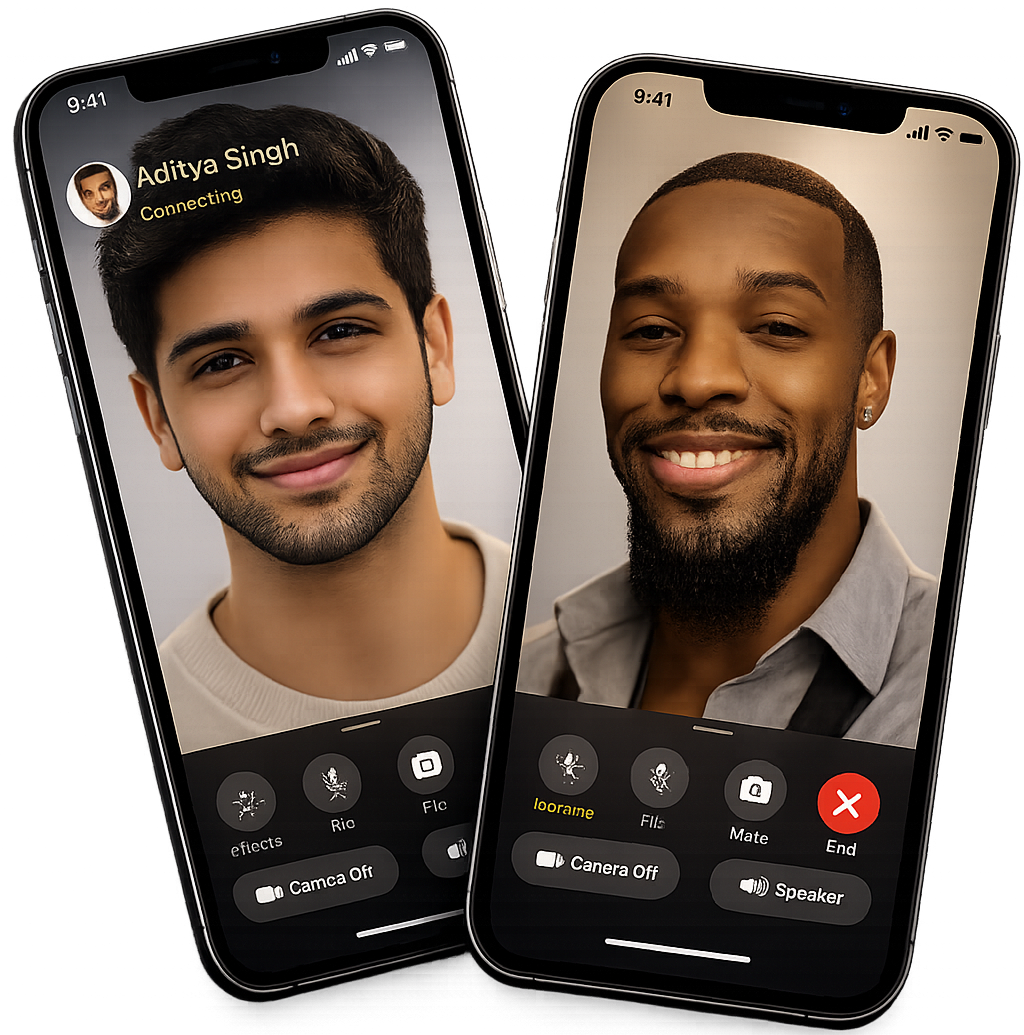
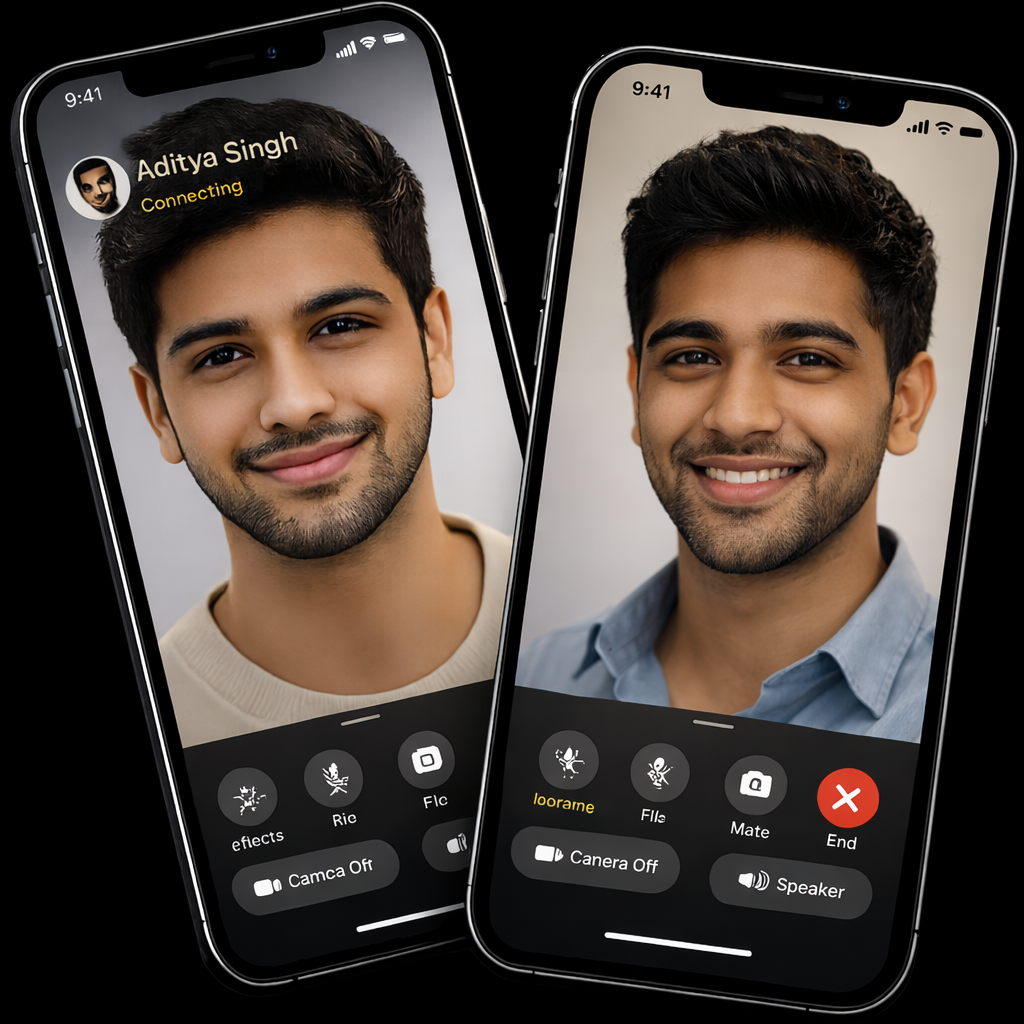
refine landing hero UI and images

diff --git a/frontend/src/components/LandingHero.jsx b/frontend/src/components/LandingHero.jsx
@@ -8,7 +8,7 @@ const LandingHero = () => {
         <div className="w-[47%] flex flex-col gap-8 h-[75vh] justify-center">
           <div className="w-full flex flex-col gap-12">
             <div className="w-full flex flex-col gap-1">
-              <h1 className="text-7xl tracking-wide font-medium leading-tight">
+              <h1 className="text-7xl tracking-wide font-bold leading-tight">
                 <span className="text-yellow-500">Connect</span> with your Loved
                 Ones
               </h1>

diff --git a/frontend/src/index.css b/frontend/src/index.css
@@ -1,4 +1,9 @@
 @import "tailwindcss";
+@import url("https://fonts.googleapis.com/css2?family=Poppins:ital,wght@0,100;0,200;0,300;0,400;0,500;0,600;0,700;0,800;0,900;1,100;1,200;1,300;1,400;1,500;1,600;1,700;1,800;1,900&display=swap");
+
+* {
+  font-family: "Poppins", sans-serif;
+}
 
 ::selection {
   background-color: #facc15;
